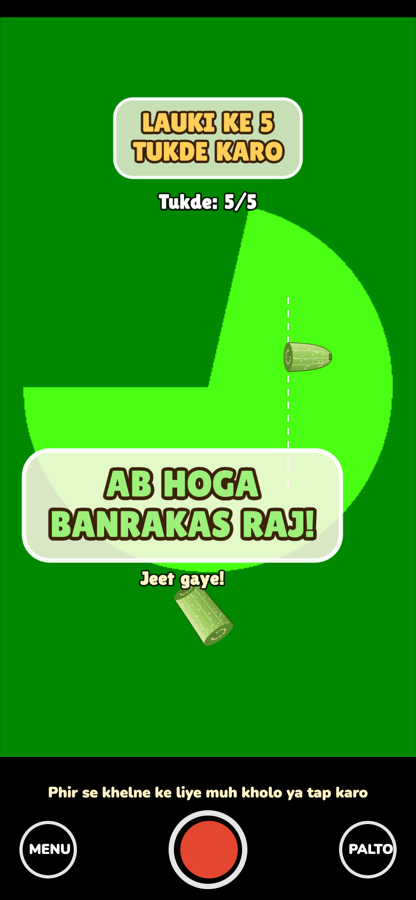
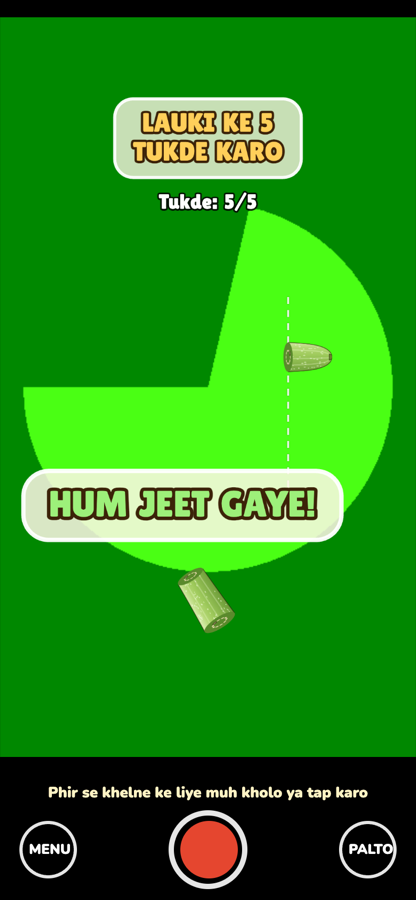
Win screen: "HUM JEET GAYE!" with the line from the show
The win line plays sfx/hum-jeet-gaye.m4a, cut from S04E08 (33:07, the
election result, dialogue channel only). Replaces "Ab hoga Banrakas raj!",
which isn't in the episodes.

Changed region(s): [[0.0312, 0.4978, 0.8438, 0.7156], [0.75, 0.3733, 0.7812, 0.4044]]

diff --git a/public/index.html b/public/index.html
@@ -259,7 +259,7 @@ const sfxLose = () => tone([392, 330, 262, 196], 0.14, "sawtooth", 0.12);
 
 // Show lines for the result screens, cut from the episodes (dialogue channel only). They play through sfxOut,
 // so they are in the recording too. A clip that is missing or fails to decode falls back to the tone.
-const VOICE = { lose: "sfx/chii-sasur.m4a", win: "sfx/banrakas-raj.m4a" };
+const VOICE = { lose: "sfx/chii-sasur.m4a", win: "sfx/hum-jeet-gaye.m4a" };
 const voiceBytes = {}, voiceBufs = { ctx: null, bufs: {} }; // decoded audio belongs to one AudioContext
 for (const [k, url] of Object.entries(VOICE)) {
   fetch(url).then((r) => (r.ok ? r.arrayBuffer() : null)).then((b) => { if (b) { voiceBytes[k] = b; decodeVoice(k); } }).catch(() => {});
@@ -552,10 +552,10 @@ function frame(now) {
     if (game.state === "over") {
       const t = Math.min(1, (now - game.endAt) / 250), sc = 0.6 + 0.4 * (1 - Math.pow(1 - t, 3));
       ctx.save(); ctx.translate(RESULT_X, RESULT_Y); ctx.scale(sc, sc); ctx.translate(-RESULT_X, -RESULT_Y);
-      const { bh } = pill(game.won ? "AB HOGA\nBANRAKAS RAJ!" : "CHII SASUR!", RESULT_X, RESULT_Y, s * 1.4,
+      const { bh } = pill(game.won ? "HUM JEET GAYE!" : "CHII SASUR!", RESULT_X, RESULT_Y, s * 1.4,
         game.won ? "#9df07a" : "#ff6a4d", "rgba(255,248,232,.85)", SAFE.rail - SAFE.left - 8);
       ctx.restore();
-      outlined(game.won ? "Jeet gaye!" : "Chook gaye!", RESULT_X, RESULT_Y + bh / 2 + s * 0.7, s * 0.72, game.won ? "#fff3c4" : "#ffd9cf");
+      if (!game.won) outlined("Chook gaye!", RESULT_X, RESULT_Y + bh / 2 + s * 0.7, s * 0.72, "#ffd9cf");
     }
 
     if (game.state === "over") setHint(now - game.endAt > 700 ? (mode === "mouth" ? "Phir se khelne ke liye muh kholo ya tap karo" : "Phir se khelne ke liye tap karo") : "");

diff --git a/README.md b/README.md
@@ -18,7 +18,7 @@
 1. Camera on karo. Lauki seedha aapke chehre pe, naak ke level pe aa jaayegi, aur aapke saath hilegi.
 2. Neeche chaaku left-right chalta rahega, upar dotted line ke saath.
 3. **Muh kholo** (ya screen pe **tap** karo) toh chaaku lauki pe girega aur ek tukda kat ke gir jaayega.
-4. **5 tukde** kaat liye toh *AB HOGA BANRAKAS RAJ!*
+4. **5 tukde** kaat liye toh *HUM JEET GAYE!*
 5. Chaaku lauki ke bahar gira toh *CHII SASUR!* Ek galti aur khel khatam.
 6. Har tukde ke baad chaaku thoda tez ho jaata hai. Sar hila ke lauki ko chaaku ke neeche laao.
 
